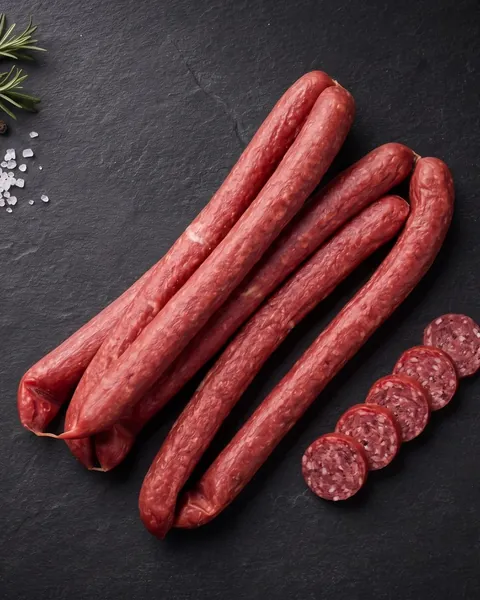
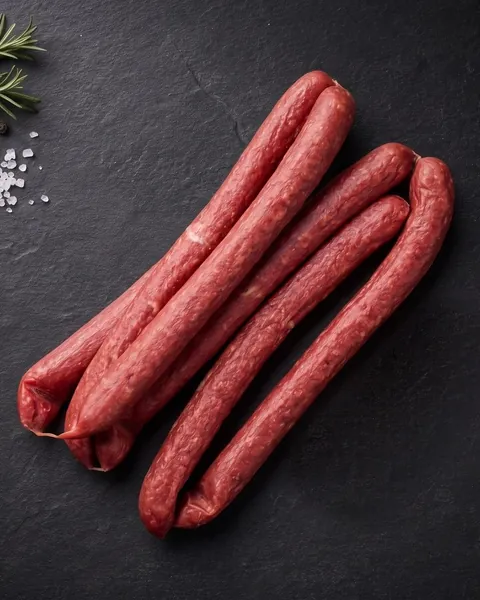
Site C: hunter sausages without round slices

Changed region(s): [[0.625, 0.51, 1.0, 0.84]]

diff --git a/img/w/dims.js b/img/w/dims.js
@@ -1,2 +1,2 @@
 /* generated by assets/make-images.py - do not edit */
-window.IMG_DIMS = {"img/balyk.before-b6.jpg":[717,896,[320,480,717],"card"],"img/balyk.jpg":[717,896,[320,480,717],"card"],"img/balykova.jpg":[717,896,[320,480,717],"card"],"img/braunshveizka.jpg":[717,896,[320,480,717],"card"],"img/buzhenyna.jpg":[717,896,[320,480,717],"card"],"img/bytok.jpg":[717,896,[320,480,717],"card"],"img/doktorska.jpg":[717,896,[320,480,717],"card"],"img/domashnia.jpg":[717,896,[320,480,717],"card"],"img/forel.jpg":[717,896,[320,480,717],"card"],"img/frantsuzka.jpg":[717,896,[320,480,717],"card"],"img/hero.jpg":[1200,896,[480,800,1200]],"img/ikra-chorna.jpg":[717,896,[320,480,717],"card"],"img/ikra-kety.jpg":[717,896,[320,480,717],"card"],"img/ikra-kyzhucha.jpg":[717,896,[320,480,717],"card"],"img/ikra-shchuky.jpg":[717,896,[320,480,717],"card"],"img/irlandska-z-balykom.jpg":[717,896,[320,480,717],"card"],"img/kabanosy.jpg":[717,896,[320,480,717],"card"],"img/kinder-joy.jpg":[960,1200,[320,480,720],"card"],"img/krab-kamchatsky.before-b6.jpg":[717,896,[320,480,717],"card"],"img/krab-kamchatsky.jpg":[717,896,[320,480,717],"card"],"img/krovyana.jpg":[717,896,[320,480,717],"card"],"img/kutum.jpg":[717,896,[320,480,717],"card"],"img/kyivska.jpg":[717,896,[320,480,717],"card"],"img/makkabi.before-b6.jpg":[717,896,[320,480,717],"card"],"img/makkabi.jpg":[717,896,[320,480,717],"card"],"img/maslo.jpg":[717,896,[320,480,717],"card"],"img/okhotnychi-kovbasky.jpg":[717,896,[320,480,717],"card"],"img/oseledets-bilyi-vedmid.jpg":[717,896,[320,480,717],"card"],"img/oseledets-file.jpg":[717,896,[320,480,717],"card"],"img/osetryna.jpg":[717,896,[320,480,717],"card"],"img/osheek.jpg":[717,896,[320,480,717],"card"],"img/otbyvna.jpg":[717,896,[320,480,717],"card"],"img/pechen-tresky.jpg":[717,896,[320,480,717],"card"],"img/prezydentska.jpg":[717,896,[320,480,717],"card"],"img/rebra-kopcheni.jpg":[717,896,[320,480,717],"card"],"img/rebra-svizhi.jpg":[717,896,[320,480,717],"card"],"img/rulet-osetrovy.jpg":[717,896,[320,480,717],"card"],"img/salami-v-plisni.before-b6.jpg":[717,896,[320,480,717],"card"],"img/salami-v-plisni.jpg":[717,896,[320,480,717],"card"],"img/salat-chuka.jpg":[717,896,[320,480,717],"card"],"img/salo-kopchene-na-vyshni.jpg":[717,896,[320,480,717],"card"],"img/salo-solene.jpg":[717,896,[320,480,717],"card"],"img/salo-zapechene.jpg":[717,896,[320,480,717],"card"],"img/sardelky-hryl.jpg":[717,896,[320,480,717],"card"],"img/sardelky-sochni.jpg":[717,896,[320,480,717],"card"],"img/servelat.before-b6.jpg":[717,896,[320,480,717],"card"],"img/servelat.jpg":[717,896,[320,480,717],"card"],"img/shashlyk-marynovany.jpg":[717,896,[320,480,717],"card"],"img/sosysky-fileini.jpg":[717,896,[320,480,717],"card"],"img/sosysky-salami.jpg":[717,896,[320,480,717],"card"],"img/sosysky-videnski.jpg":[717,896,[320,480,717],"card"],"img/story.jpg":[1200,896,[480,800,1200]],"img/syr-cheese-cult.jpg":[717,896,[320,480,717],"card"],"img/taran.jpg":[717,896,[320,480,717],"card"],"img/tort-kyivsky.jpg":[717,896,[320,480,717],"card"],"img/tsukerky-roshen.jpg":[717,896,[320,480,717],"card"],"img/tvoroh.jpg":[717,896,[320,480,717],"card"],"img/yalovychyna-kopchena.jpg":[717,896,[320,480,717],"card"],"img/zelts.before-b6.jpg":[717,896,[320,480,717],"card"],"img/zelts.jpg":[717,896,[320,480,717],"card"],"img/reviews/review-01-salo-ukr.jpg":[900,661,[400,800]],"img/reviews/review-02-salo-idealne.jpg":[570,255,[400,570]],"img/reviews/review-03-sardelky-kovbasa.jpg":[900,654,[400,800]],"img/reviews/review-04-doktorska-salo-vyshnia.jpg":[595,400,[400,595]],"img/reviews/review-05-ikra-ryba-miaso.jpg":[900,1250,[400,800]],"img/reviews/review-06-ikra-chorna-chervona.jpg":[680,368,[400,680]],"img/reviews/review-07-ikra-chervona-foto.jpg":[900,1042,[400,800]],"img/reviews/review-08-osetryna-ikra.jpg":[705,190,[400,705]],"img/reviews/review-09-tort-balyk.jpg":[870,395,[400,800]],"img/reviews/review-10-ikra-dostavka-speka.jpg":[900,221,[400,800]],"img/reviews/review-11-posylka-idealno.jpg":[460,243,[400,460]],"img/reviews/review-12-rebra-hryl.jpg":[460,513,[400,460]],"stamps/few_left_en.png":[1080,358,[400,800]],"stamps/few_left_ru.png":[1080,358,[400,800]],"stamps/few_left_uk.png":[1080,358,[400,800]],"stamps/in_stock_en.png":[1080,358,[400,800]],"stamps/in_stock_ru.png":[1080,358,[400,800]],"stamps/in_stock_uk.png":[1080,358,[400,800]],"stamps/new_batch_en.png":[1080,358,[400,800]],"stamps/new_batch_ru.png":[1080,358,[400,800]],"stamps/new_batch_uk.png":[1080,358,[400,800]],"stamps/preorder_en.png":[1080,358,[400,800]],"stamps/preorder_ru.png":[1080,358,[400,800]],"stamps/preorder_uk.png":[1080,358,[400,800]],"stamps/sold_out_en.png":[1080,358,[400,800]],"stamps/sold_out_ru.png":[1080,358,[400,800]],"stamps/sold_out_uk.png":[1080,358,[400,800]]};
+window.IMG_DIMS = {"img/balyk.before-b6.jpg":[717,896,[320,480,717],"card"],"img/balyk.jpg":[717,896,[320,480,717],"card"],"img/balykova.jpg":[717,896,[320,480,717],"card"],"img/braunshveizka.jpg":[717,896,[320,480,717],"card"],"img/buzhenyna.jpg":[717,896,[320,480,717],"card"],"img/bytok.jpg":[717,896,[320,480,717],"card"],"img/doktorska.jpg":[717,896,[320,480,717],"card"],"img/domashnia.jpg":[717,896,[320,480,717],"card"],"img/forel.jpg":[717,896,[320,480,717],"card"],"img/frantsuzka.jpg":[717,896,[320,480,717],"card"],"img/hero.jpg":[1200,896,[480,800,1200]],"img/ikra-chorna.jpg":[717,896,[320,480,717],"card"],"img/ikra-kety.jpg":[717,896,[320,480,717],"card"],"img/ikra-kyzhucha.jpg":[717,896,[320,480,717],"card"],"img/ikra-shchuky.jpg":[717,896,[320,480,717],"card"],"img/irlandska-z-balykom.jpg":[717,896,[320,480,717],"card"],"img/kabanosy.jpg":[717,896,[320,480,717],"card"],"img/kinder-joy.jpg":[960,1200,[320,480,720],"card"],"img/krab-kamchatsky.before-b6.jpg":[717,896,[320,480,717],"card"],"img/krab-kamchatsky.jpg":[717,896,[320,480,717],"card"],"img/krovyana.jpg":[717,896,[320,480,717],"card"],"img/kutum.jpg":[717,896,[320,480,717],"card"],"img/kyivska.jpg":[717,896,[320,480,717],"card"],"img/makkabi.before-b6.jpg":[717,896,[320,480,717],"card"],"img/makkabi.jpg":[717,896,[320,480,717],"card"],"img/maslo.jpg":[717,896,[320,480,717],"card"],"img/okhotnychi-kovbasky.before-noslices.jpg":[717,896,[320,480,717],"card"],"img/okhotnychi-kovbasky.jpg":[717,896,[320,480,717],"card"],"img/oseledets-bilyi-vedmid.jpg":[717,896,[320,480,717],"card"],"img/oseledets-file.jpg":[717,896,[320,480,717],"card"],"img/osetryna.jpg":[717,896,[320,480,717],"card"],"img/osheek.jpg":[717,896,[320,480,717],"card"],"img/otbyvna.jpg":[717,896,[320,480,717],"card"],"img/pechen-tresky.jpg":[717,896,[320,480,717],"card"],"img/prezydentska.jpg":[717,896,[320,480,717],"card"],"img/rebra-kopcheni.jpg":[717,896,[320,480,717],"card"],"img/rebra-svizhi.jpg":[717,896,[320,480,717],"card"],"img/rulet-osetrovy.jpg":[717,896,[320,480,717],"card"],"img/salami-v-plisni.before-b6.jpg":[717,896,[320,480,717],"card"],"img/salami-v-plisni.jpg":[717,896,[320,480,717],"card"],"img/salat-chuka.jpg":[717,896,[320,480,717],"card"],"img/salo-kopchene-na-vyshni.jpg":[717,896,[320,480,717],"card"],"img/salo-solene.jpg":[717,896,[320,480,717],"card"],"img/salo-zapechene.jpg":[717,896,[320,480,717],"card"],"img/sardelky-hryl.jpg":[717,896,[320,480,717],"card"],"img/sardelky-sochni.jpg":[717,896,[320,480,717],"card"],"img/servelat.before-b6.jpg":[717,896,[320,480,717],"card"],"img/servelat.jpg":[717,896,[320,480,717],"card"],"img/shashlyk-marynovany.jpg":[717,896,[320,480,717],"card"],"img/sosysky-fileini.jpg":[717,896,[320,480,717],"card"],"img/sosysky-salami.jpg":[717,896,[320,480,717],"card"],"img/sosysky-videnski.jpg":[717,896,[320,480,717],"card"],"img/story.jpg":[1200,896,[480,800,1200]],"img/syr-cheese-cult.jpg":[717,896,[320,480,717],"card"],"img/taran.jpg":[717,896,[320,480,717],"card"],"img/tort-kyivsky.jpg":[717,896,[320,480,717],"card"],"img/tsukerky-roshen.jpg":[717,896,[320,480,717],"card"],"img/tvoroh.jpg":[717,896,[320,480,717],"card"],"img/yalovychyna-kopchena.jpg":[717,896,[320,480,717],"card"],"img/zelts.before-b6.jpg":[717,896,[320,480,717],"card"],"img/zelts.jpg":[717,896,[320,480,717],"card"],"img/reviews/review-01-salo-ukr.jpg":[900,661,[400,800]],"img/reviews/review-02-salo-idealne.jpg":[570,255,[400,570]],"img/reviews/review-03-sardelky-kovbasa.jpg":[900,654,[400,800]],"img/reviews/review-04-doktorska-salo-vyshnia.jpg":[595,400,[400,595]],"img/reviews/review-05-ikra-ryba-miaso.jpg":[900,1250,[400,800]],"img/reviews/review-06-ikra-chorna-chervona.jpg":[680,368,[400,680]],"img/reviews/review-07-ikra-chervona-foto.jpg":[900,1042,[400,800]],"img/reviews/review-08-osetryna-ikra.jpg":[705,190,[400,705]],"img/reviews/review-09-tort-balyk.jpg":[870,395,[400,800]],"img/reviews/review-10-ikra-dostavka-speka.jpg":[900,221,[400,800]],"img/reviews/review-11-posylka-idealno.jpg":[460,243,[400,460]],"img/reviews/review-12-rebra-hryl.jpg":[460,513,[400,460]],"stamps/few_left_en.png":[1080,358,[400,800]],"stamps/few_left_ru.png":[1080,358,[400,800]],"stamps/few_left_uk.png":[1080,358,[400,800]],"stamps/in_stock_en.png":[1080,358,[400,800]],"stamps/in_stock_ru.png":[1080,358,[400,800]],"stamps/in_stock_uk.png":[1080,358,[400,800]],"stamps/new_batch_en.png":[1080,358,[400,800]],"stamps/new_batch_ru.png":[1080,358,[400,800]],"stamps/new_batch_uk.png":[1080,358,[400,800]],"stamps/preorder_en.png":[1080,358,[400,800]],"stamps/preorder_ru.png":[1080,358,[400,800]],"stamps/preorder_uk.png":[1080,358,[400,800]],"stamps/sold_out_en.png":[1080,358,[400,800]],"stamps/sold_out_ru.png":[1080,358,[400,800]],"stamps/sold_out_uk.png":[1080,358,[400,800]]};
